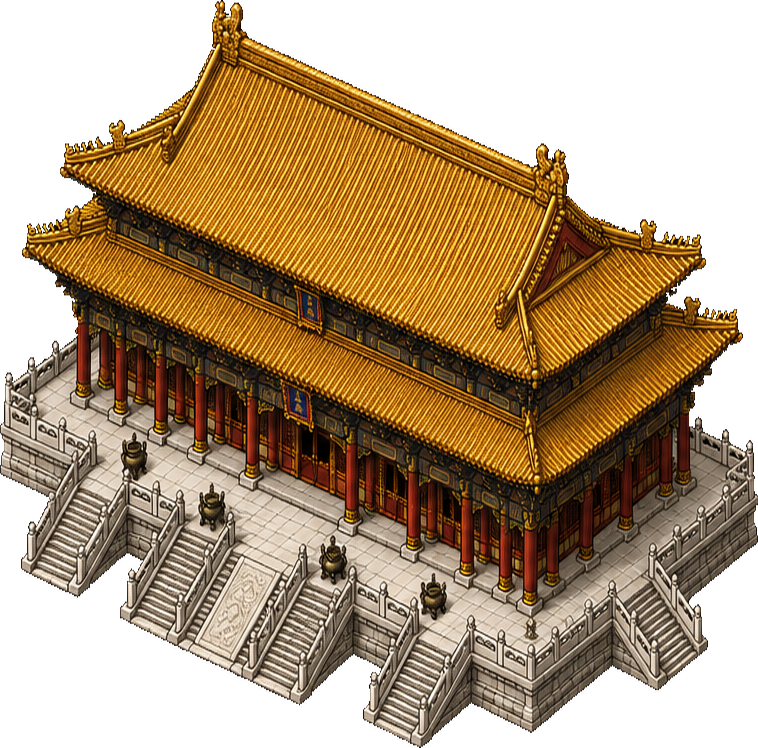
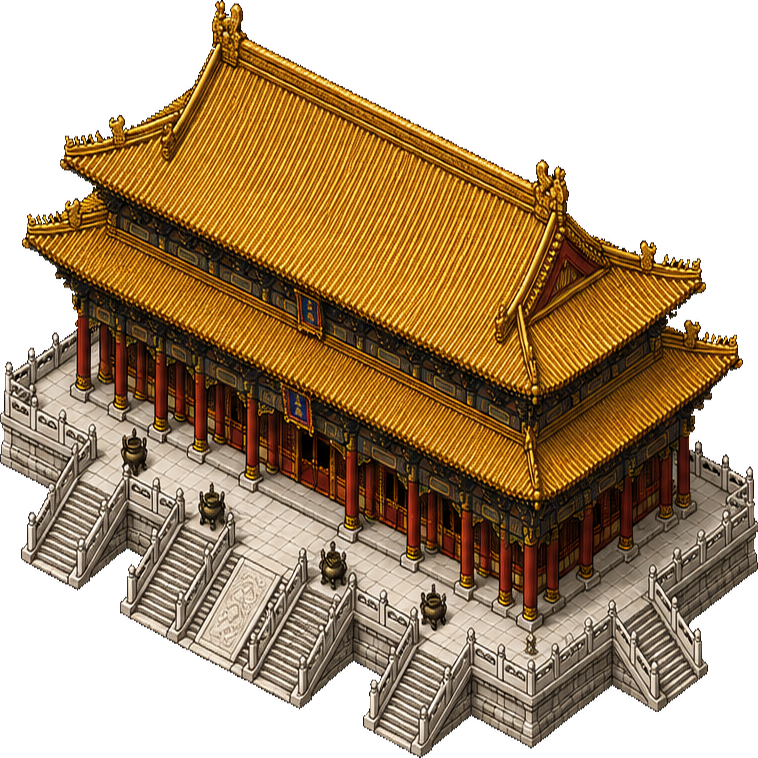
Wei: enderezar el Great Hall con shear vertical (giro horario del suelo)
El arte estaba dibujado un pelín girado (antihorario): la arista de la base
derecha salía más plana que la rejilla y pisaba el camino de ese lado.
Corregido con un shear VERTICAL k=0.05 (baja el lado derecho = rota el rombo
del suelo en horario) que mantiene las columnas verticales. Reancla.

diff --git a/assets/js/iso-sprites-wei.js b/assets/js/iso-sprites-wei.js
@@ -27,10 +27,12 @@
   // rot 0 (frente, entrada + estandarte) y rot 1 (trasera, girada 180°); rot 2/3
   // caen a -0. El arte venía con proyección más plana (~20°); se estiró ×1.38 en
   // vertical para que la BASE quede a 26.565° (2:1) y cuadre con la rejilla del
-  // suelo. Footprint [12,9] (orientado al eje largo del edificio); anclaje centrado.
+  // suelo. Footprint [12,9]. El arte venía ligeramente girado (arista base derecha mas plana);
+  // corregido con un shear VERTICAL k=0.05 (baja el lado derecho = giro horario) que
+  // endereza el rombo del suelo dejando las columnas verticales. Anclaje centrado.
   const T = window.ISO_SPRITES_THEMES.wei;
-  T['bld-salon-trono-0'] = { ox: 324, oy: 313, w: 757, h: 747 };
-  T['bld-salon-trono-1'] = { ox: 324, oy: 312, w: 757, h: 734 };
+  T['bld-salon-trono-0'] = { ox: 324, oy: 321, w: 757, h: 757 };
+  T['bld-salon-trono-1'] = { ox: 324, oy: 321, w: 757, h: 750 };
 
   // Palacio 宮殿 (tema Wei): reutiliza el arte del ANTIGUO salón del trono (salón
   // cuadrado de doble alero sobre base de mármol). Footprint [4,6] centrado.

diff --git a/haciendas.html b/haciendas.html
@@ -83,7 +83,7 @@
 <script src="assets/js/hac-render.js?v=5"></script>
 <script src="assets/js/iso-sprites-meta.js?v=22"></script>
 <script src="assets/js/iso-sprites-extra.js?v=12"></script>
-<script src="assets/js/iso-sprites-wei.js?v=3"></script>
+<script src="assets/js/iso-sprites-wei.js?v=4"></script>
 <script src="assets/js/hac-flora.js?v=1"></script>
 <script src="assets/js/hac-iso.js?v=78"></script>
 <script src="assets/js/hac-dialog.js?v=2"></script>

diff --git a/hacienda.html b/hacienda.html
@@ -41,7 +41,7 @@
 <script src="assets/js/hac-pixel.js?v=3"></script>
 <script src="assets/js/iso-sprites-meta.js?v=22"></script>
 <script src="assets/js/iso-sprites-extra.js?v=12"></script>
-<script src="assets/js/iso-sprites-wei.js?v=3"></script>
+<script src="assets/js/iso-sprites-wei.js?v=4"></script>
 <script src="assets/js/hac-flora.js?v=1"></script>
 <script src="assets/js/hac-iso.js?v=78"></script>
 <script src="assets/js/hac-dialog.js?v=2"></script>

diff --git a/admin-haciendas.html b/admin-haciendas.html
@@ -185,7 +185,7 @@
 <script src="assets/js/hac-stats.js?v=8"></script>
 <script src="assets/js/iso-sprites-meta.js?v=22"></script>
 <script src="assets/js/iso-sprites-extra.js?v=12"></script>
-<script src="assets/js/iso-sprites-wei.js?v=3"></script>
+<script src="assets/js/iso-sprites-wei.js?v=4"></script>
 <script>
 (function () {
   'use strict';
